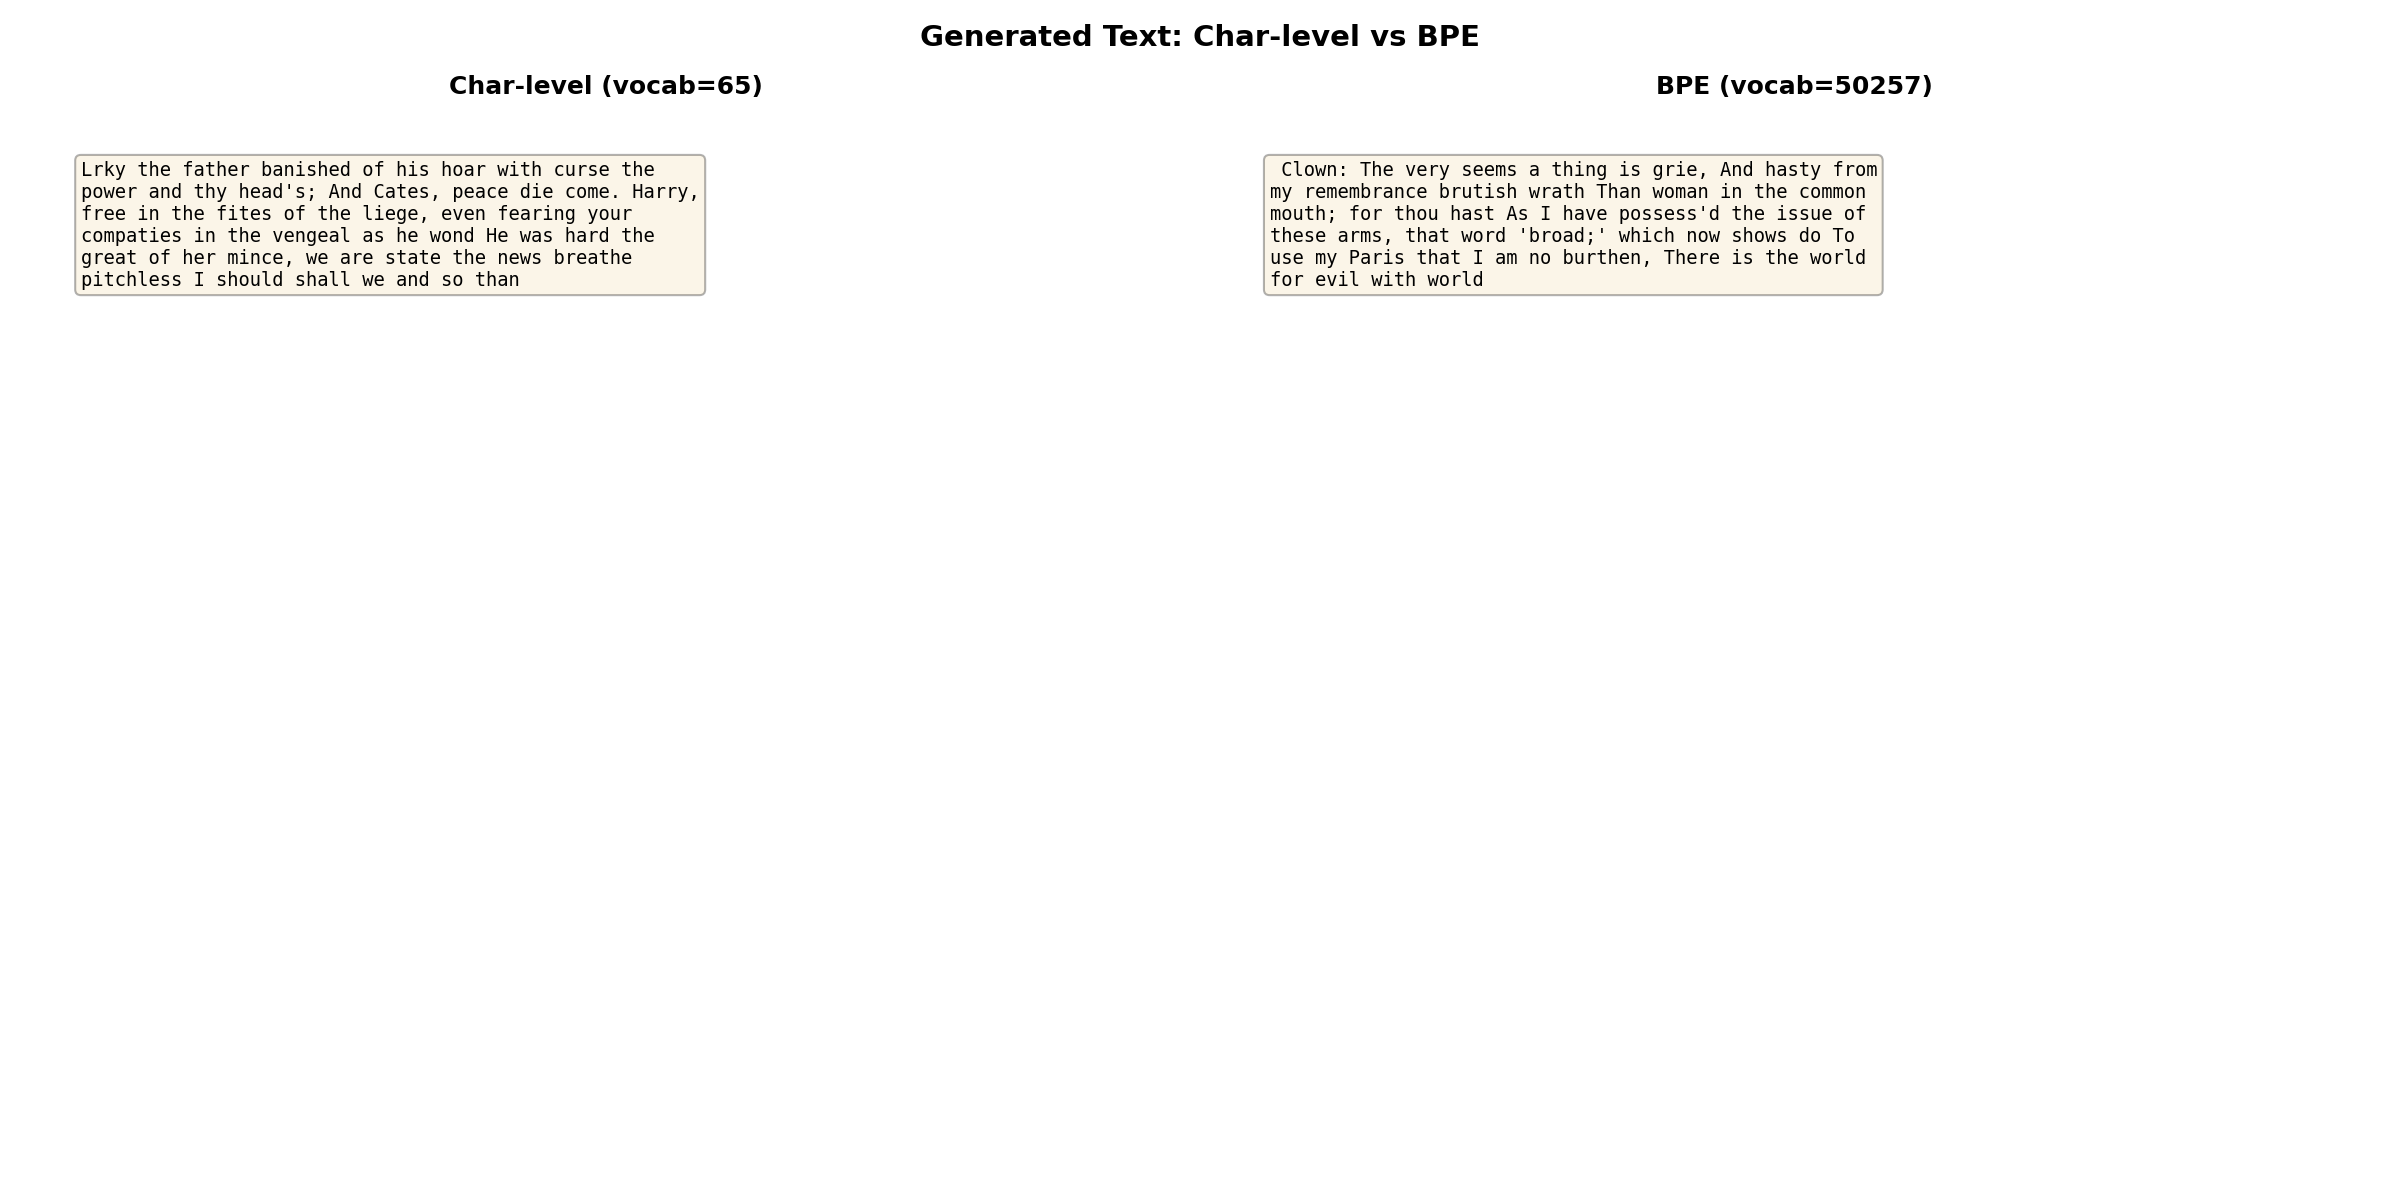
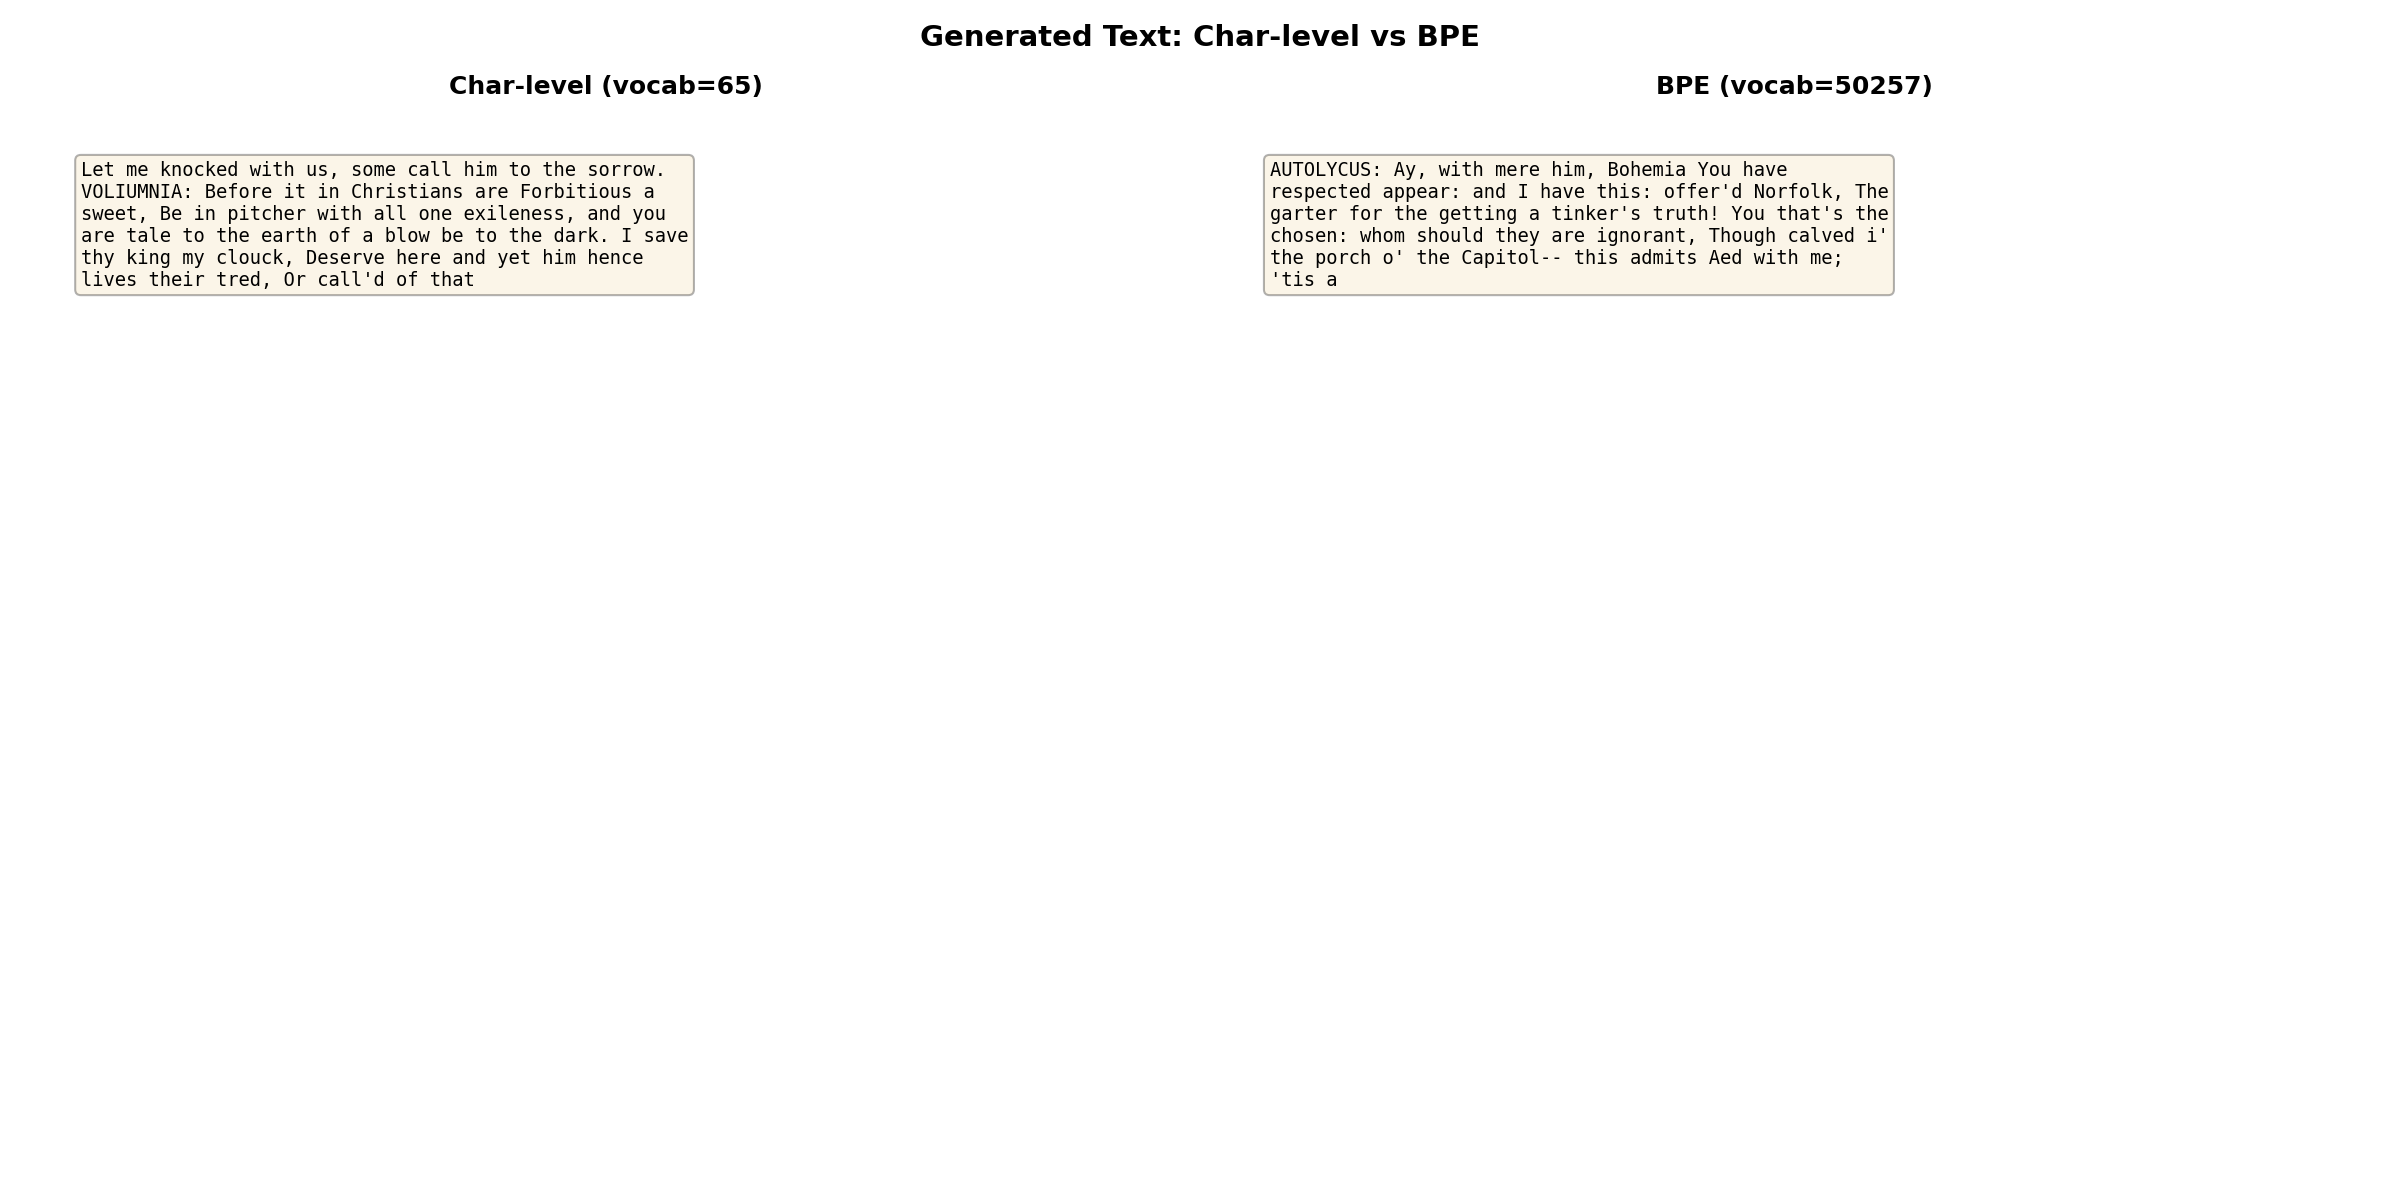
Refined section 5 of the notes by updating the Shakespeare dataset description for clarity, improving the explanation of the next-token prediction loss, and enhancing the discussion on residual connections. Added detailed examples of text generation from trained models, including specific outputs fo

Changed region(s): [[0.0312, 0.1233, 0.2812, 0.2467], [0.5312, 0.1233, 0.8125, 0.2467]]

diff --git a/section/5/notes.md b/section/5/notes.md
@@ -28,7 +28,7 @@ Today the setup changes. We have **sequence data** $(x_1, \ldots, x_T)$ and no l
 
 The goal: learn to **generate** and **continue** sequences that resemble those in the training data, and that extrapolate beyond them in a consistent way. Given the rise of tools like ChatGPT and Claude, you already know why this matters.
 
-**Our running example.** Throughout this lecture we train on a character-level Shakespeare dataset ([source](https://github.com/karpathy/char-rnn/tree/master/data/tinyshakespeare){:target="_blank"}) consisting of approximately 1.1 million characters. Here is a representative excerpt:
+**Our running example.** Throughout this lecture we train on a Shakespeare dataset ([source](https://github.com/karpathy/char-rnn/tree/master/data/tinyshakespeare){:target="_blank"}) consisting of approximately 1.1 million characters. Here is a representative excerpt:
 
 ```
 First Citizen:
@@ -117,7 +117,7 @@ $$
 p(\text{next token} \mid x_1, \ldots, x_T).
 $$
 
-The `<bos>` token is always present at position $0$, so $p(x_1)$ really means "probability of $x_1$ given the start-of-sequence marker." We leave this conditioning implicit in all equations that follow.
+The `<bos>` token is always present at position $0$, so $p(x_1)$ really means $p(x_1 \mid \langle\text{bos}\rangle)$. We leave this conditioning implicit in all equations that follow.
 
 Once we have this distribution, generation works as follows:
 
@@ -170,7 +170,7 @@ $$
 p_\theta(X) = p_\theta(x_1) \cdot p_\theta(x_2 \mid x_1) \cdots p_\theta(x_T \mid x_1, \ldots, x_{T-1}).
 $$
 
-Recall that `<bos>` is always implicitly prepended, so $p_\theta(x_1)$ conditions on the start-of-sequence marker.
+Recall that `<bos>` is always implicitly prepended, so $p_\theta(x_1) = p_\theta(x_1 \mid \langle\text{bos}\rangle)$.
 
 Optimizing a product of many small probabilities is numerically fragile: the product can underflow to zero. Taking the negative log converts the product into a sum:
 
@@ -178,13 +178,15 @@ $$
 \min_\theta \sum_{X \in \mathcal{X}} \sum_{t=1}^{T} -\log p_\theta(x_t \mid x_1, \ldots, x_{t-1}).
 $$
 
-This is the **next-token prediction loss**. Each term $-\log p_\theta(x_t \mid \cdots)$ penalizes the model for assigning low probability to the token that actually appeared. Minimizing this objective trains the model to be a good next-token predictor across all positions in all training sequences.
+This is the **next-token prediction loss**. Each term $-\log p_\theta(x_t \mid \cdots)$ penalizes the model for assigning low probability to the token that actually appeared. Because $\log$ is the natural logarithm, the loss is measured in **nats** (natural units of information); dividing by the number of tokens gives **nats per token**. A model that assigns uniform probability over $\vert V\vert = 65$ tokens has loss $\log 65 \approx 4.17$ nats/token; any value below this indicates the model has learned something.
+
+In practice the sum over all sequences is too expensive to compute at each step. Instead we estimate it by sampling a random **mini-batch** of $B$ subsequences of length $T$ from the training data, computing the average loss over the batch, and taking one gradient step. In our experiments we use $B = 64$ and $T = 128$. Minimizing this stochastic estimate trains the model to be a good next-token predictor across all positions in all training sequences.
 
 ## 4. Building attention step by step
 
 We now turn to the central question: how do we go from the embedding matrix $E$ to $E_{\text{final}}$?
 
-**Experimental setup.** To make the comparison concrete, we train each model variant on character-level Shakespeare with $\vert V\vert = 65$, embedding dimension $d = 256$, sequence length $128$, batch size $64$, Adam optimizer with learning rate $3 \times 10^{-4}$, and $10{,}000$ training steps. We use $d = 256$ rather than the typical $d = 768$ to keep training feasible on a laptop; the architectural insights are the same.
+**Experimental setup.** To make the comparison concrete, we train each model variant on character-level Shakespeare with $\vert V\vert = 65$, embedding dimension $d = 256$, sequence length $128$, batch size $64$, Adam optimizer with learning rate $3 \times 10^{-4}$, and $10{,}000$ training steps.
 
 ### 4.1 Predict from the last embedding alone
 
@@ -312,7 +314,7 @@ The $-\infty$ entries cause $\exp(-\infty) = 0$ in the softmax, so position $t$ 
 
 *Figure 4.4: Left: the causal mask for a 12-token sequence. White entries are $0$ (attend); dark entries are $-\infty$ (block). Right: attention weights after softmax. Each row sums to $1$ and only attends to earlier (or equal) positions.*
 
-This mechanism was introduced in ["Attention Is All You Need" (Vaswani et al., 2017)](https://papers.nips.cc/paper_files/paper/2017/hash/3f5ee243547dee91fbd053c1c4a845aa-Abstract.html){:target="_blank"}.
+The matrix $\operatorname{Attn}(E)$ is $T \times d$. Row $t$ is a weighted combination of the value vectors $\lbrace v_1, \ldots, v_t\rbrace$, where the weights are determined by how well query $t$ matches keys $1, \ldots, t$. This mechanism was introduced in ["Attention Is All You Need" (Vaswani et al., 2017)](https://papers.nips.cc/paper_files/paper/2017/hash/3f5ee243547dee91fbd053c1c4a845aa-Abstract.html){:target="_blank"}, the paper that established the transformer architecture.
 
 ```python
 import torch
@@ -360,7 +362,7 @@ $$
 
 This is a **residual connection**. The model can learn to use the attention output as a correction to the original embeddings rather than replacing them entirely.
 
-Why does this help? Residual connections improve the **conditioning** of the optimization problem. When the transformation is the identity plus a small perturbation, the loss landscape near initialization is better behaved and gradient descent makes more reliable progress. We have not covered conditioning formally in this course, so take this as a working hypothesis rather than a theorem.
+Why does this help? You will find all sorts of explanations online ("it keeps the gradient flowing," etc.). Most of them are hand-wavy. My best guess is that residual connections improve the **conditioning** of the optimization problem. Conditioning is not something we have covered in this course, and I have not verified this claim carefully, but that is where I would start if pressed for an explanation.
 
 ### 5.2 The feed-forward network
 
@@ -479,11 +481,37 @@ for name, p in model.named_parameters():
 
 ### 5.6 Generating text
 
-Figure 5.3 shows text sampled from several model variants after training.
+Here are 300-character samples from four of our trained models, generated autoregressively at temperature $0.8$.
 
-![Sample text from different models](figures/sample_text_comparison.png)
+**(a) Last Embedding Only.** Output reflects character-pair frequencies but has no sequential structure:
 
-*Figure 5.3: Text sampled from trained models. (a) Last-embedding-only: output reflects character frequencies but has no sequential structure. (b) Average pooling: some character-level patterns emerge. (c) Single-layer Q/K/V attention: word-like structure appears. (d) 4-layer transformer: recognizable formatting with line breaks and character names. (e) 4-layer transformer with positional encoding: improved coherence.*
+> Wh shinal dawome usio ith by thy ghe t trongat prerend thin e ime mmas y I r d: HAng, bo th'ewe Buraithe ale e ant stafr onour nor ghere thisuls acoupren'stofo hed winoothans Pr I grou ay che lombood, blles thatig. TEYouthe l telve that. There ild I'd e: RLerirondeisthe pr s t s, thellknge worir, f
+
+**(b) Average Pooling.** The signal is diluted by equal weighting; the output is less coherent than (a):
+
+> ICES:ehan t sf woihaldl,' am ladatfr fti,thypwioeoe yontld e sel,ooe s : crhht n teeou e u eetreWwsisrb r e yltdomshl he moelr rndirad le peh hhteenseba yt bfouiu.hmttcsasece rnneeb siaebhh em.Knete;twott ehoesr u sw tr tsoT,''esaaoult ncdt amholyft A er se: ohs ac t ra o wst a b I o
+
+**(c) Single-Layer Q/K/V Attention.** Some word-like patterns emerge, but no real English words:
+
+> Be nous f athecalind wn t de thatho acicrmathiliny and be; cindyosthanf bun, ound isiber ithin thalpes s ibo wourr ofouloutanoty ngtrarel: torshimare't an he o t m'seme he foditig he oupo ferstheeathourer outhe, edsben athan ane cost lebritokseaththeror at pet teclly le hay sean tha wanthesinthellt
+
+**(d) 4-Layer Transformer.** Recognizable formatting with line breaks, character names, and English words:
+
+> That by it be encountere of his brother.
+>
+> MARCIUS:
+> Well, and you come? o, sir, I think, so gentlemen.
+>
+> MARIANA:
+> I have done enoumenance.
+>
+> MARCIUS:
+> One how the househer to my lord.
+>
+> SICINIUS:
+> Your honour's warrs dead:
+> When they law often ears thou enear the dates them no will of meen
+> I from your high
 
 ## 6. Practical additions
 
@@ -524,6 +552,19 @@ Many modern architectures use learned positional encodings or relative position 
 ![Training curves: positional encoding](figures/training_curves_posenc.png)
 
 *Figure 6.1: Training loss for a 4-layer transformer with and without sinusoidal positional encoding ($d = 256$, $10{,}000$ steps). Positional encoding provides a consistent advantage, particularly later in training when the model has learned enough structure to exploit position information.*
+
+Here is a sample from the 4-layer transformer with positional encoding (compare to sample (d) in §5.6):
+
+> Shall uncle you sure
+> That he has merry to me a power: if
+> your agger and as she
+> And prive as 'twere myself; for if the strength of a soldiers.
+>
+> Third Servingman:
+> Shall this have touch mind incontent him!
+> I say, if you discharge for such lord's sweetest
+> Make mine of me, but then in his hireit:
+> Whilst
 
 ### 6.3 Multiple attention heads
 
@@ -573,11 +614,11 @@ The tradeoffs:
 | Embedding table params ($d = 256$) | $16{,}640$ | $12{,}865{,}792$ |
 | Attention cost per step | $T^2 = 25\text{M}$ | $T^2 = 1.7\text{M}$ |
 
-BPE sequences are roughly $4\times$ shorter, which quadratically reduces attention cost. But the embedding table is $800\times$ larger. For large models where $d$ is much bigger than $\vert V\vert$, this overhead is negligible. For our small $d = 256$ models, the BPE embedding table dominates the parameter count.
+BPE sequences are roughly $4\times$ shorter, which quadratically reduces attention cost. The $T^2$ factor comes from the attention score matrix $QK^T \in \mathbb{R}^{T \times T}$: every position's query is compared to every other position's key, so the computation scales as $T^2$. Cutting $T$ by $4\times$ reduces this cost by $16\times$. But the embedding table is $800\times$ larger. For large models where $d$ is much bigger than $\vert V\vert$, this overhead is negligible. For our small $d = 256$ models, the BPE embedding table dominates the parameter count.
 
 ![BPE comparison](figures/bpe_comparison.png)
 
-*Figure 7.1: Training loss for 4-layer transformers (with positional encoding, $d = 256$, $3{,}000$ steps) trained on character-level vs. BPE tokenization. The losses are not directly comparable because the models predict different-sized tokens. The BPE model has $28.6\text{M}$ parameters (vs. $2.9\text{M}$ for char-level) due to its $50{,}257$-token embedding table.*
+*Figure 7.1: Training loss for 4-layer transformers with sinusoidal positional encoding ($d = 256$, $3{,}000$ steps) trained on character-level vs. BPE tokenization. The losses are not directly comparable because the models predict different-sized tokens. The BPE model has $28.6\text{M}$ parameters (vs. $2.9\text{M}$ for char-level) due to its $50{,}257$-token embedding table; with only $304{,}000$ training tokens, the BPE model is significantly undertrained relative to its capacity.*
 
 ![BPE samples](figures/bpe_samples.png)
 
@@ -621,10 +662,10 @@ Vertical flow diagram of a single transformer block with attention, MLP, and res
 
 Training loss for transformers with 1, 2, 4, and 8 layers ($d=256$, 10,000 steps).
 
-### Figure 5.3: Sample text comparison
-**File:** `script/generate_samples.py` → `figures/sample_text_comparison.png`
+### Text samples (§5.6 and §6.2)
+**File:** `script/generate_samples.py`
 
-Generated text from five trained models: last-embedding, average pooling, Q/K/V attention, 4-layer transformer, 4-layer transformer with positional encoding.
+Generates text from trained model checkpoints. The samples shown in §5.6 and §6.2 were produced by this script at temperature $0.8$.
 
 ### Figure 6.1: Positional encoding comparison
 **File:** `script/train_transformer_depth.py` → `figures/training_curves_posenc.png`
